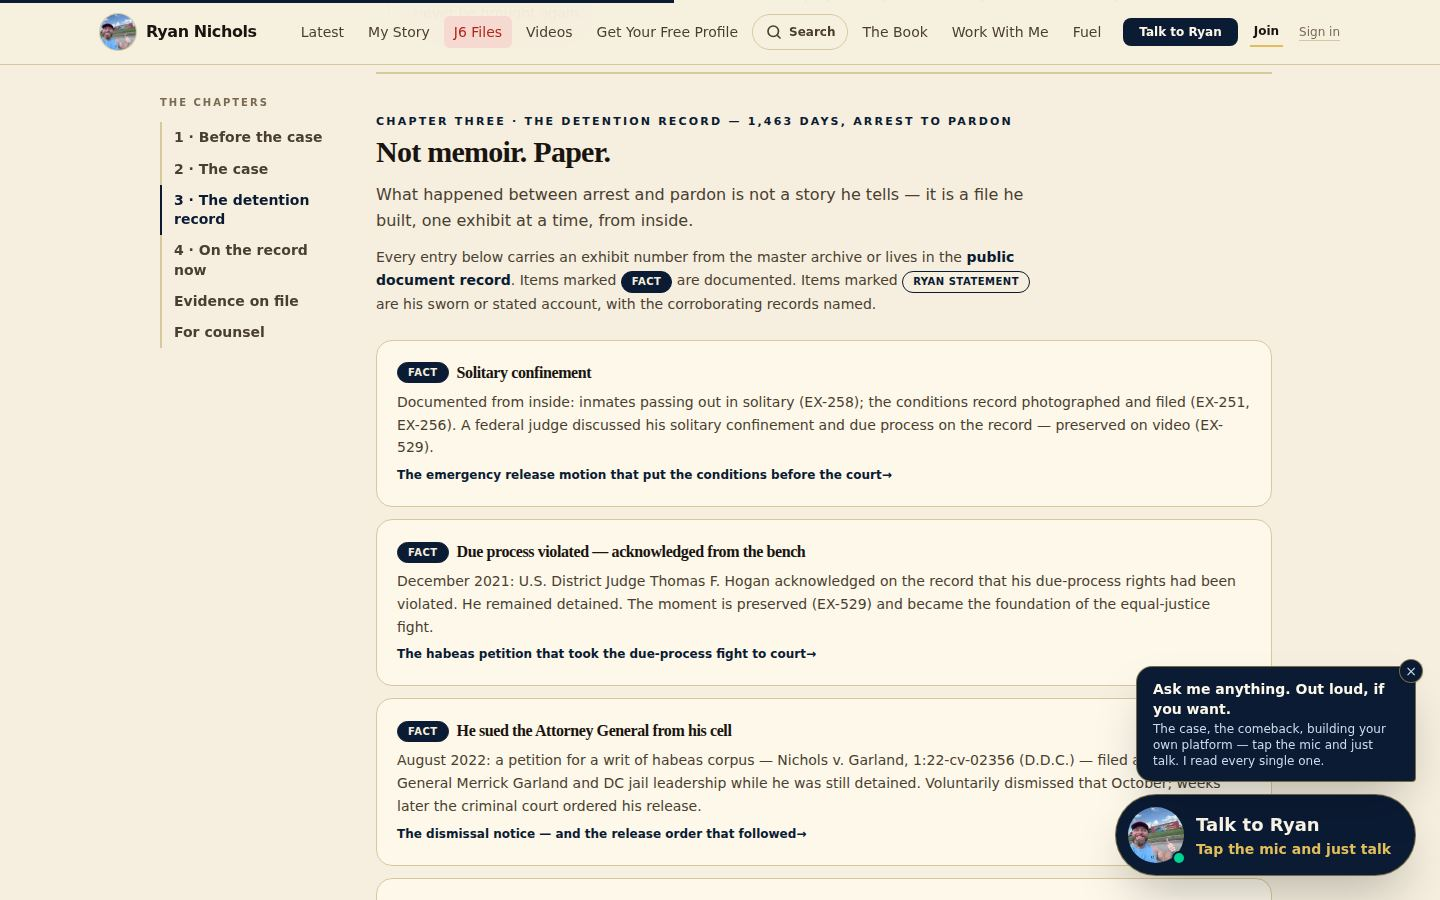
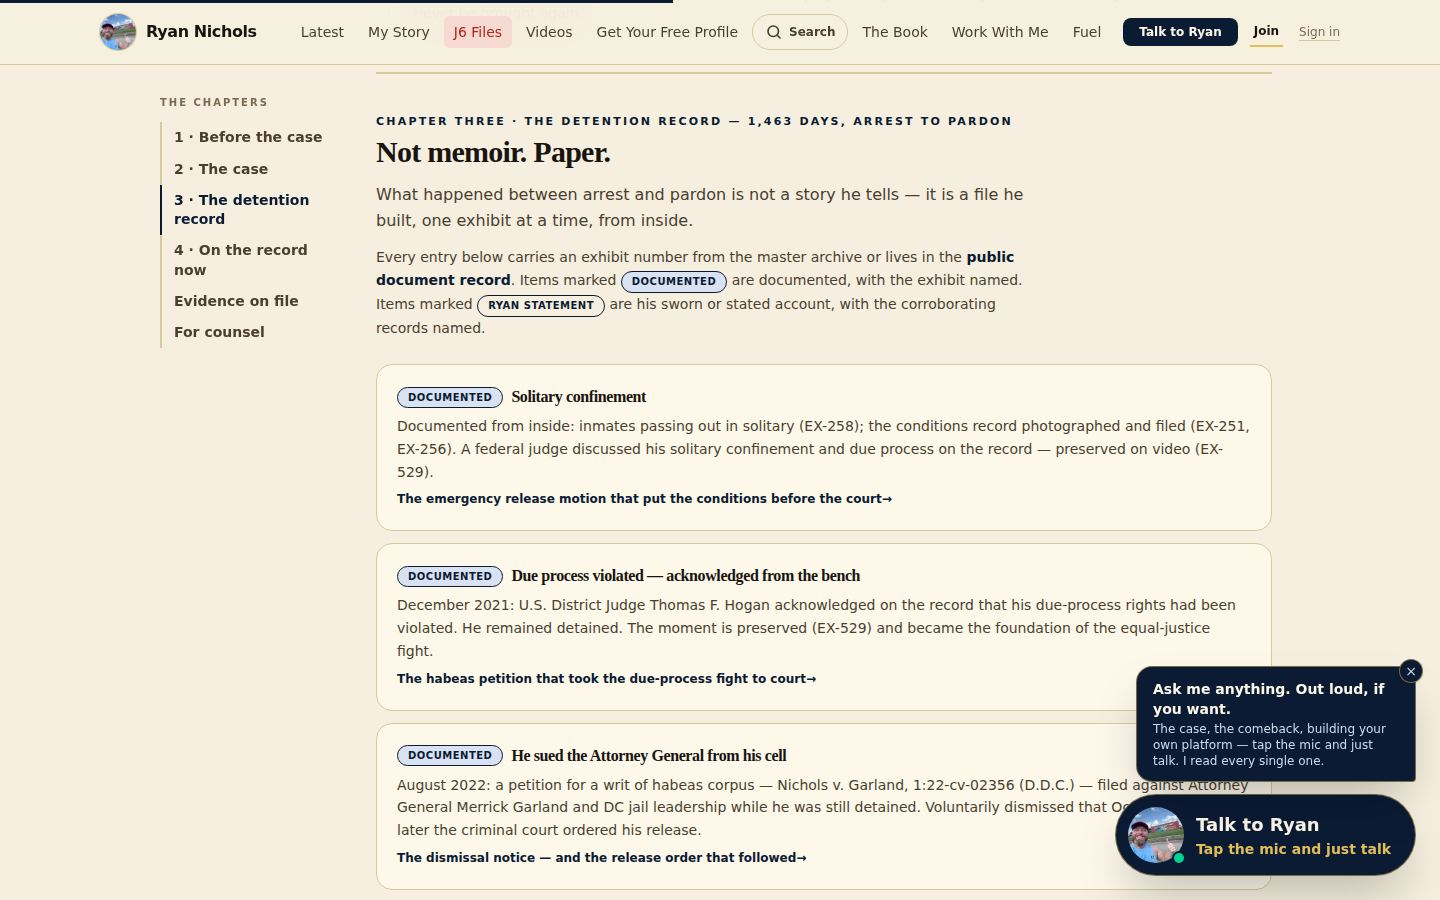
Move 4 review: DOCUMENTED is its own label, not FACT
The detention chapter's "Documented" tag meant that the paper exists and
is linked, not that the claim inside it is established. Mapping it onto
FACT ("verifiable, uncontested") upgraded provenance into truth. The
shared taxonomy in lib/officials.ts gains DOCUMENTED ("preserved in a
named exhibit on file"), ClaimChip renders it navy on blue-soft, the
dossier legend explains it, and the chapter's entries and legend use it.
No entry's classification changes from what the page said before Move 4.

Claude-Session: https://claude.ai/code/session_013yY82UKXnA5A6346PxQm9y

Changed region(s): [[0.25, 0.28, 0.875, 0.9644]]

diff --git a/website/components/case/ClaimChip.tsx b/website/components/case/ClaimChip.tsx
@@ -1,9 +1,9 @@
 import type { ClaimLabel } from "@/lib/officials";
 
 // The one evidence-classification chip for the case files. FACT / RECORD /
-// RYAN STATEMENT / DOCUMENTED INFERENCE / NEEDS AUTHENTICATION are the
-// labels the archive publishes under (lib/officials.ts). Every chip on
-// /case — the detention chapter, the official dossiers — renders through
+// DOCUMENTED / RYAN STATEMENT / DOCUMENTED INFERENCE / NEEDS AUTHENTICATION
+// are the labels the archive publishes under (lib/officials.ts). Every chip
+// on /case — the detention chapter, the official dossiers — renders through
 // this component with token colors, so one label always looks one way.
 
 // Ink color per label, for callers that draw a rule or a border in the
@@ -13,19 +13,22 @@ import type { ClaimLabel } from "@/lib/officials";
 export const CLAIM_INK: Record<ClaimLabel, string> = {
   FACT: "var(--color-navy)",
   RECORD: "var(--color-blue)",
+  DOCUMENTED: "var(--color-navy)",
   "RYAN STATEMENT": "var(--color-ink-soft)",
   "DOCUMENTED INFERENCE": "var(--color-support-strong)",
   "NEEDS AUTHENTICATION": "var(--color-muted)",
 };
 
-// Filled navy = documented fact; outlined navy = his own account; blue =
-// stated on the court record; gold = inference from disclosed facts; muted
-// = real and load-bearing, not yet verified. The gold and muted chips keep
-// their border and fill for identity but set their text in ink-soft: at
-// 10–11px the lighter inks fall under 4.5:1 on their own tints.
+// Filled navy = verifiable fact; navy on blue-soft = preserved in a named
+// exhibit; outlined navy = his own account; blue = stated on the court
+// record; gold = inference from disclosed facts; muted = real and
+// load-bearing, not yet verified. The gold and muted chips keep their border
+// and fill for identity but set their text in ink-soft: at 10–11px the
+// lighter inks fall under 4.5:1 on their own tints.
 const CHIP: Record<ClaimLabel, string> = {
   FACT: "border-[var(--color-navy)] bg-[var(--color-navy)] text-[var(--color-paper)]",
   RECORD: "border-[var(--color-blue)] bg-[var(--color-blue-soft)] text-[var(--color-blue)]",
+  DOCUMENTED: "border-[var(--color-navy)] bg-[var(--color-blue-soft)] text-[var(--color-navy)]",
   "RYAN STATEMENT": "border-[var(--color-navy)] bg-transparent text-[var(--color-navy)]",
   "DOCUMENTED INFERENCE":
     "border-[var(--color-support-strong)] bg-[var(--color-support-soft)] text-[var(--color-ink-soft)]",

diff --git a/website/components/RyanCaseProfile.tsx b/website/components/RyanCaseProfile.tsx
@@ -546,9 +546,9 @@ export function RyanCaseProfile({
           <Link href="/case?view=documents" className="text-[var(--color-navy)] font-semibold hover:underline">
             public document record
           </Link>
-          . Items marked <ClaimChip label="FACT" /> are documented. Items marked{" "}
-          <ClaimChip label="RYAN STATEMENT" /> are his sworn or stated account,
-          with the corroborating records named.
+          . Items marked <ClaimChip label="DOCUMENTED" /> are documented, with
+          the exhibit named. Items marked <ClaimChip label="RYAN STATEMENT" />{" "}
+          are his sworn or stated account, with the corroborating records named.
         </p>
 
         <div className="mt-6 space-y-3">
@@ -653,7 +653,7 @@ export function RyanCaseProfile({
               className="rounded-2xl border border-[var(--color-line)] bg-[var(--color-surface)] p-4 sm:p-5"
             >
               <div className="flex flex-wrap items-center gap-2">
-                <ClaimChip label={item.tag === "doc" ? "FACT" : "RYAN STATEMENT"} />
+                <ClaimChip label={item.tag === "doc" ? "DOCUMENTED" : "RYAN STATEMENT"} />
                 <h3 className="text-base font-bold tracking-tight text-[var(--color-ink)]">
                   {item.title}
                 </h3>

diff --git a/website/lib/officials.ts b/website/lib/officials.ts
@@ -6,6 +6,10 @@
 //
 //   FACT                  — verifiable, uncontested (role, agency, docket facts)
 //   RECORD                — stated on the court record / in a filing
+//   DOCUMENTED            — preserved in a named exhibit on file (a grievance,
+//                           a note, a photograph, a recording); the paper
+//                           exists and is linked, the claim inside it is not
+//                           thereby established
 //   RYAN STATEMENT        — Ryan's own account or characterization
 //   DOCUMENTED INFERENCE  — a conclusion drawn from disclosed, sourced facts
 //   NEEDS AUTHENTICATION  — real and load-bearing, but not yet independently verified
@@ -19,6 +23,7 @@
 export type ClaimLabel =
   | "FACT"
   | "RECORD"
+  | "DOCUMENTED"
   | "RYAN STATEMENT"
   | "DOCUMENTED INFERENCE"
   | "NEEDS AUTHENTICATION";

diff --git a/website/components/OfficialDossier.tsx b/website/components/OfficialDossier.tsx
@@ -13,6 +13,7 @@ import { ClaimChip, CLAIM_INK } from "@/components/case/ClaimChip";
 const BLURB: Record<ClaimLabel, string> = {
   FACT: "Verifiable, uncontested.",
   RECORD: "Stated on the court record.",
+  DOCUMENTED: "Preserved in a named exhibit on file.",
   "RYAN STATEMENT": "Ryan's own account.",
   "DOCUMENTED INFERENCE": "Drawn from disclosed, sourced facts.",
   "NEEDS AUTHENTICATION": "Real and load-bearing, not yet verified.",
@@ -21,6 +22,7 @@ const BLURB: Record<ClaimLabel, string> = {
 const ORDER: ClaimLabel[] = [
   "FACT",
   "RECORD",
+  "DOCUMENTED",
   "RYAN STATEMENT",
   "DOCUMENTED INFERENCE",
   "NEEDS AUTHENTICATION",
